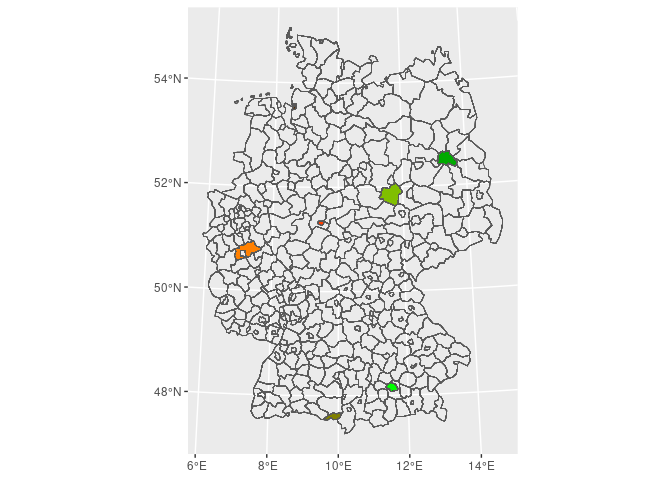
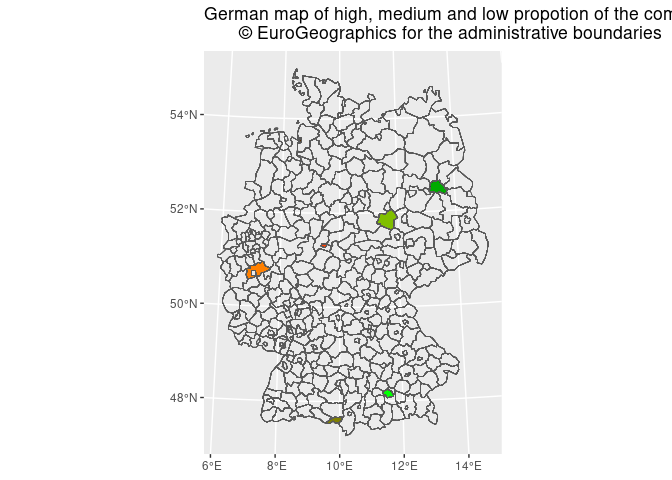
added copyrighted to the map

diff --git a/README.md b/README.md
@@ -166,9 +166,12 @@ plot_xctr(no_fin) +
 ### 4. Create a German map with risk categories color gradient
 
 ``` r
-german_map(financial, benchmark = "unit_isic_sec")
-#> Object cached at /tmp/RtmpLLTpND/eurostat/sf10320163035.RData
-#> sf at resolution 1: 10  cached at:  /tmp/RtmpLLTpND/eurostat/sf10320163035.RData
+german_map(financial, benchmark = "unit_isic_sec") +
+  labs(title = "German map of high, medium and low propotion of the companies that are found in one region. 
+       © EuroGeographics for the administrative boundaries ")
+#> Object cached at /tmp/Rtmp2M7MqW/eurostat/sf10320163035.RData
+#> Reading cache file /tmp/Rtmp2M7MqW/eurostat/sf10320163035.RData
+#> sf at resolution 1: 10  from year  2016  read from cache file:  /tmp/Rtmp2M7MqW/eurostat/sf10320163035.RData
 ```
 
 <img src="man/figures/README-unnamed-chunk-13-1.png" width="100%" />
